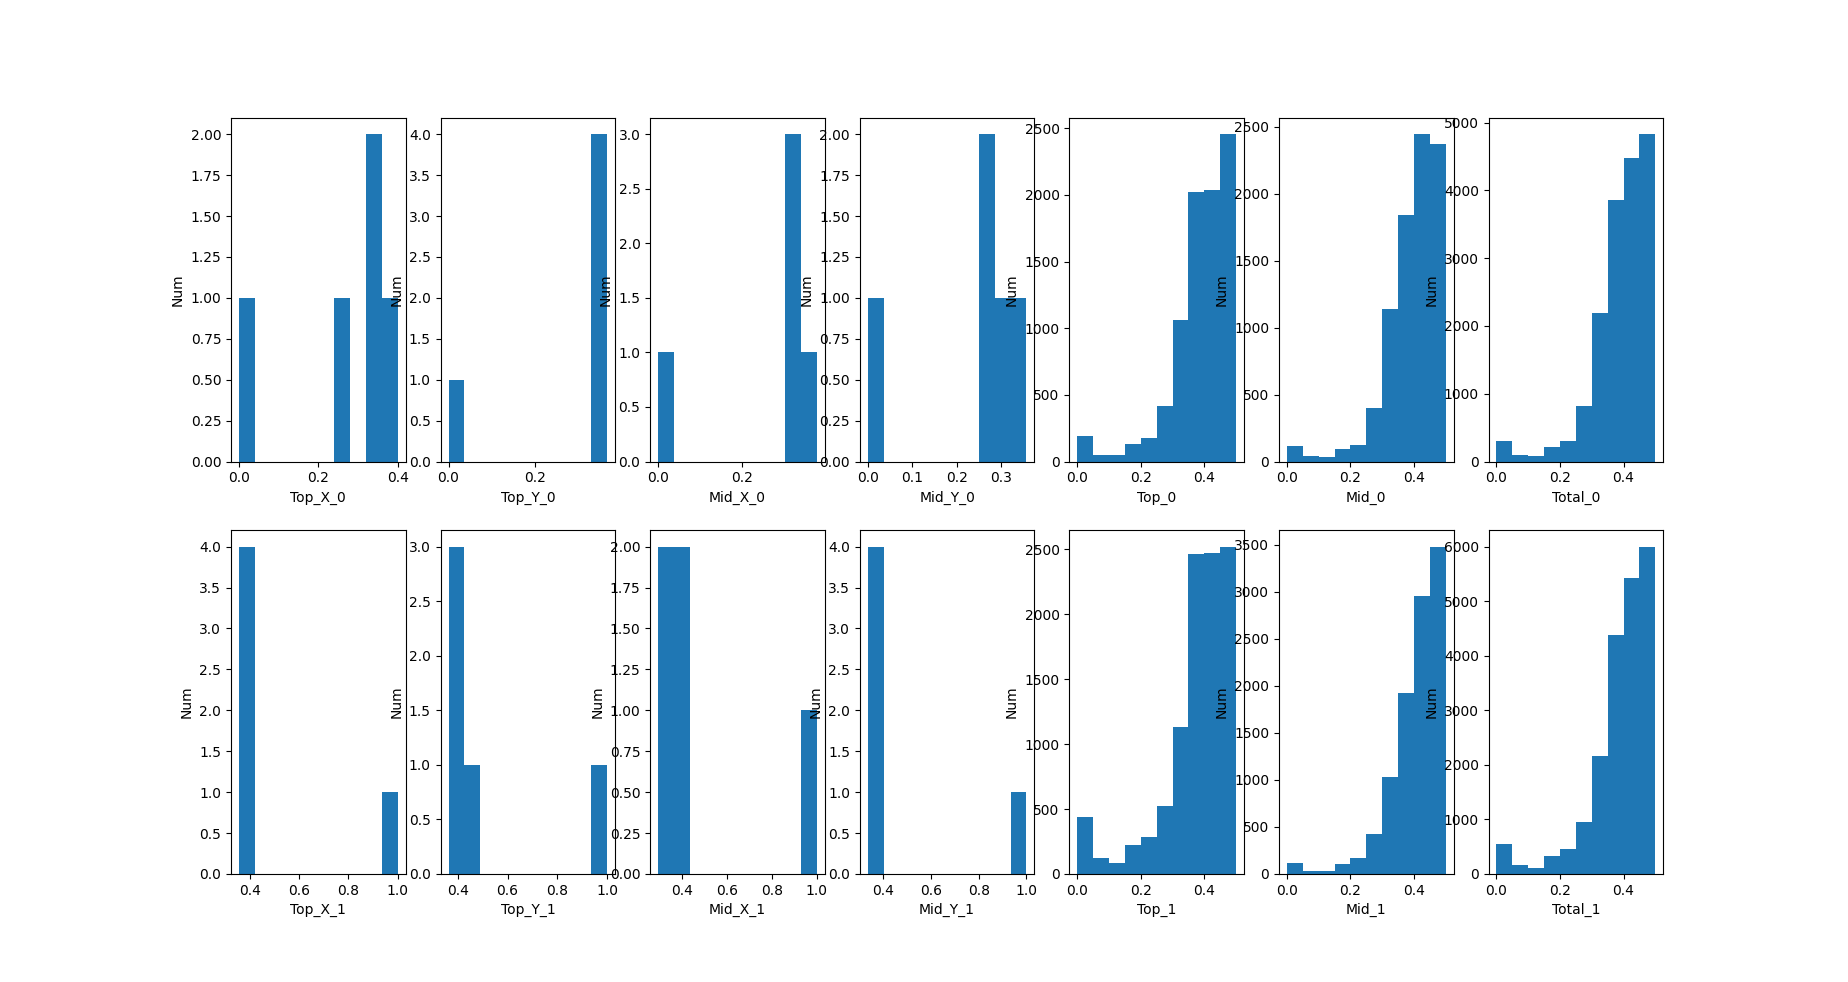
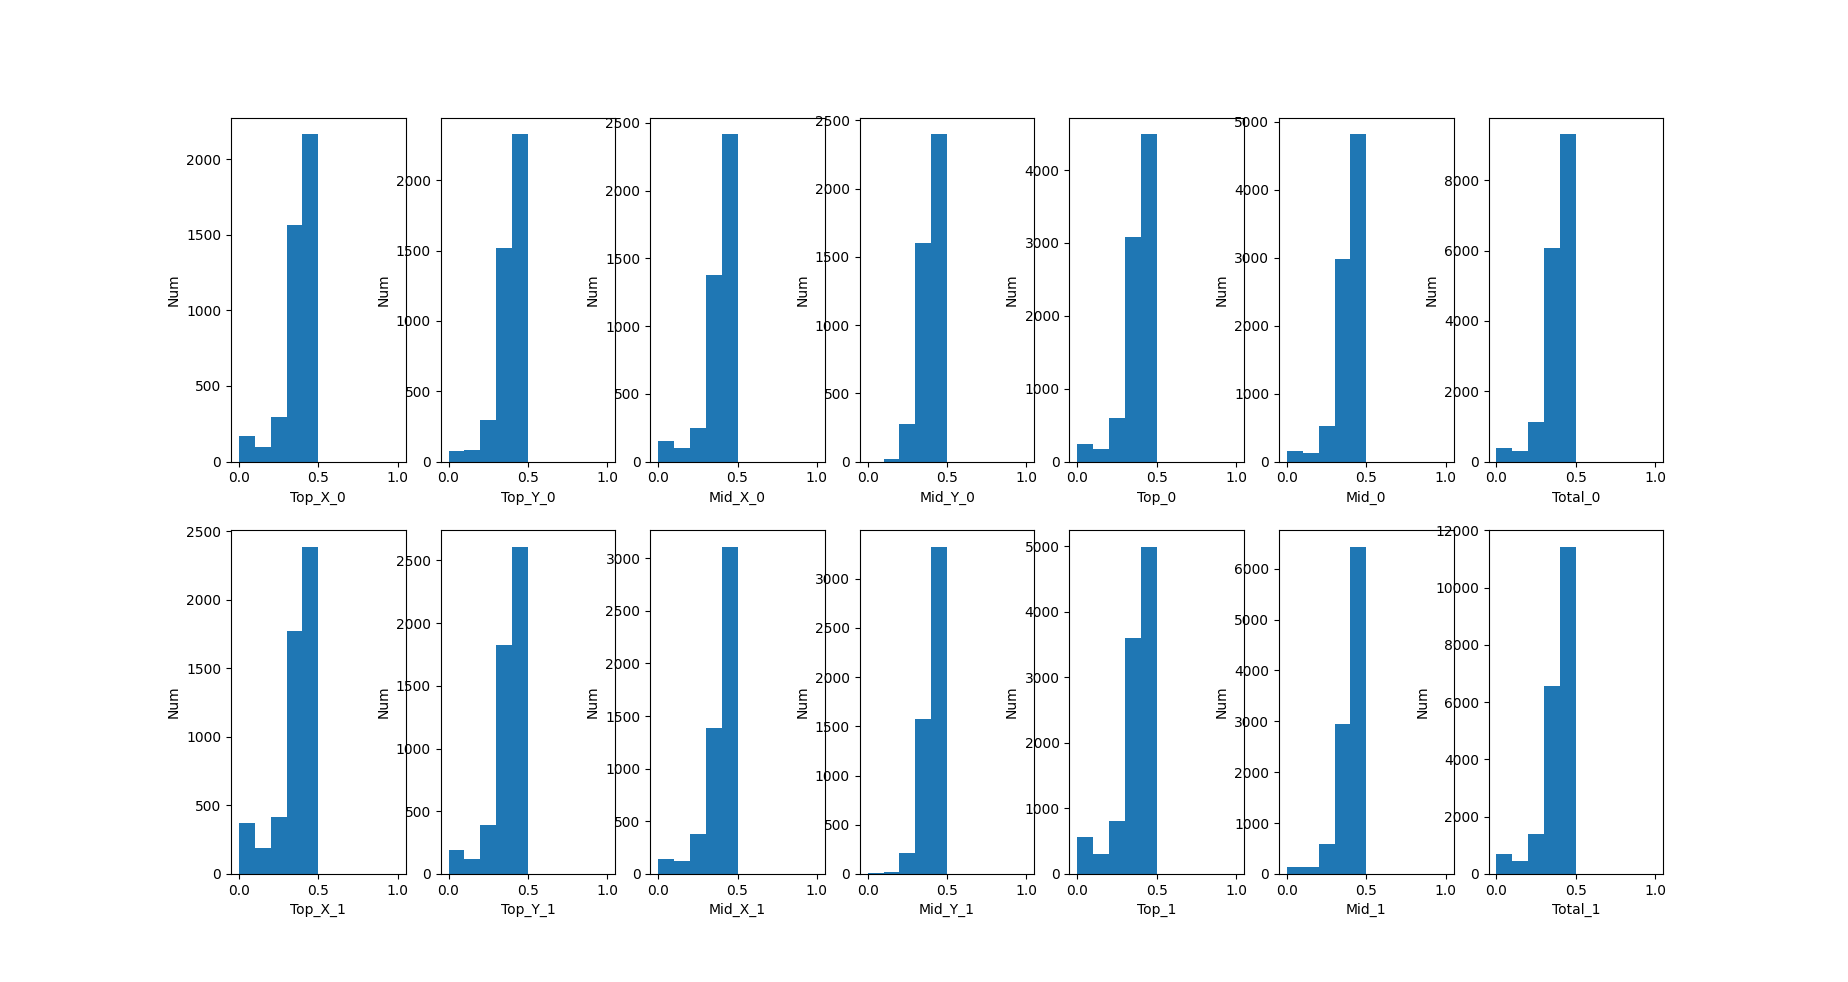
edit hist_std

diff --git a/tfpose/1-processing/hist_std.py b/tfpose/1-processing/hist_std.py
@@ -17,10 +17,12 @@ df_nc = pd.read_pickle('../0-data/data_prepared/'+args.nc)      # ( , 5)
 # topX, topY, midX, midY, top, mid, total
 fig, axes = plt.subplots(nrows=2, ncols=7)      
 
+print(df_c.iloc[:,0])
+
 # define concatenation function
 def concatData(data):
-    dataT = pd.concat([data.iloc[:, 0], data.iloc[:, 1]])
-    dataM = pd.concat([data.iloc[:, 2], data.iloc[:, 3]])
+    dataT = pd.concat([data.iloc[:, 0], data.iloc[:, 1]], ignore_index=True)
+    dataM = pd.concat([data.iloc[:, 2], data.iloc[:, 3]], ignore_index=True)
     dataTotal = pd.concat([dataT, dataM])
     
     return dataT, dataM, dataTotal
@@ -29,19 +31,19 @@ def concatData(data):
 def drawStdHist(data, row):
     dataT, dataM, dataTotal = concatData(data)    
     for i in range(4):
-        axes[row, i].hist(data.iloc[i])
+        axes[row, i].hist(data.iloc[:, i], range=(0, 1))
         axes[row, i].set_xlabel(data.columns[i] + '_' + str(row), fontsize=10)
         axes[row, i].set_ylabel('Num', fontsize=10)
     
-    axes[row, 4].hist(dataT)
+    axes[row, 4].hist(dataT, range=(0, 1))
     axes[row, 4].set_xlabel('Top_' + str(row), fontsize=10)
     axes[row, 4].set_ylabel('Num', fontsize=10)
 
-    axes[row, 5].hist(dataM)
+    axes[row, 5].hist(dataM, range=(0, 1))
     axes[row, 5].set_xlabel('Mid_' + str(row), fontsize=10)
     axes[row, 5].set_ylabel('Num', fontsize=10)
     
-    axes[row, 6].hist(dataTotal)
+    axes[row, 6].hist(dataTotal, range=(0, 1))
     axes[row, 6].set_xlabel('Total_' + str(row), fontsize=10)
     axes[row, 6].set_ylabel('Num', fontsize=10)
 
@@ -51,4 +53,3 @@ drawStdHist(df_c, 1)
 drawStdHist(df_nc, 0)
 
 plt.show()
-
